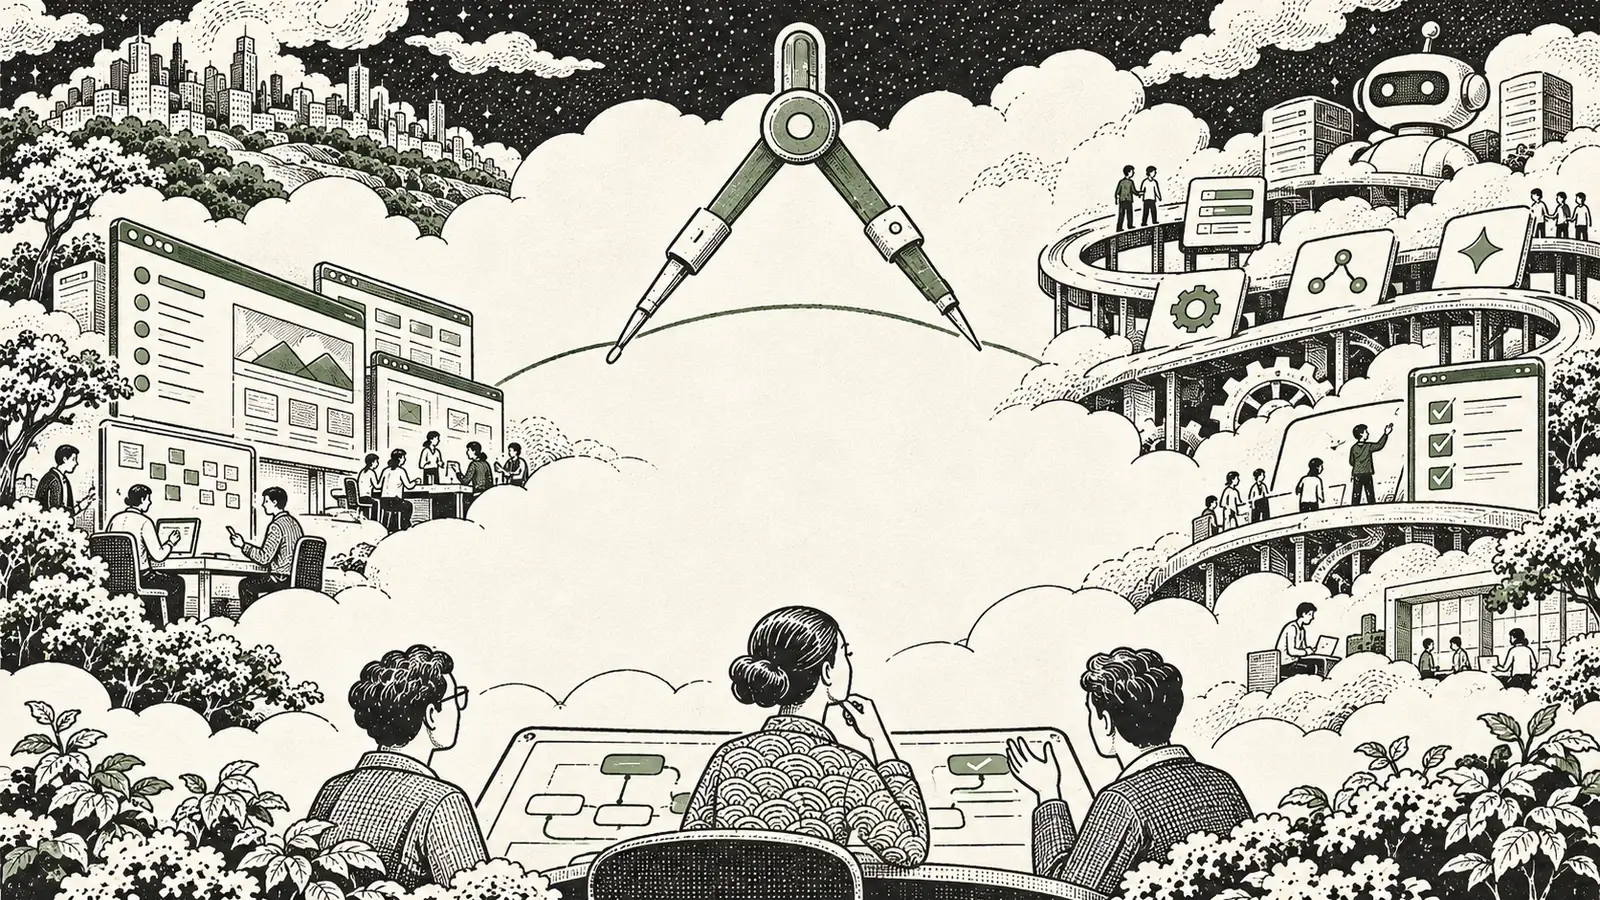
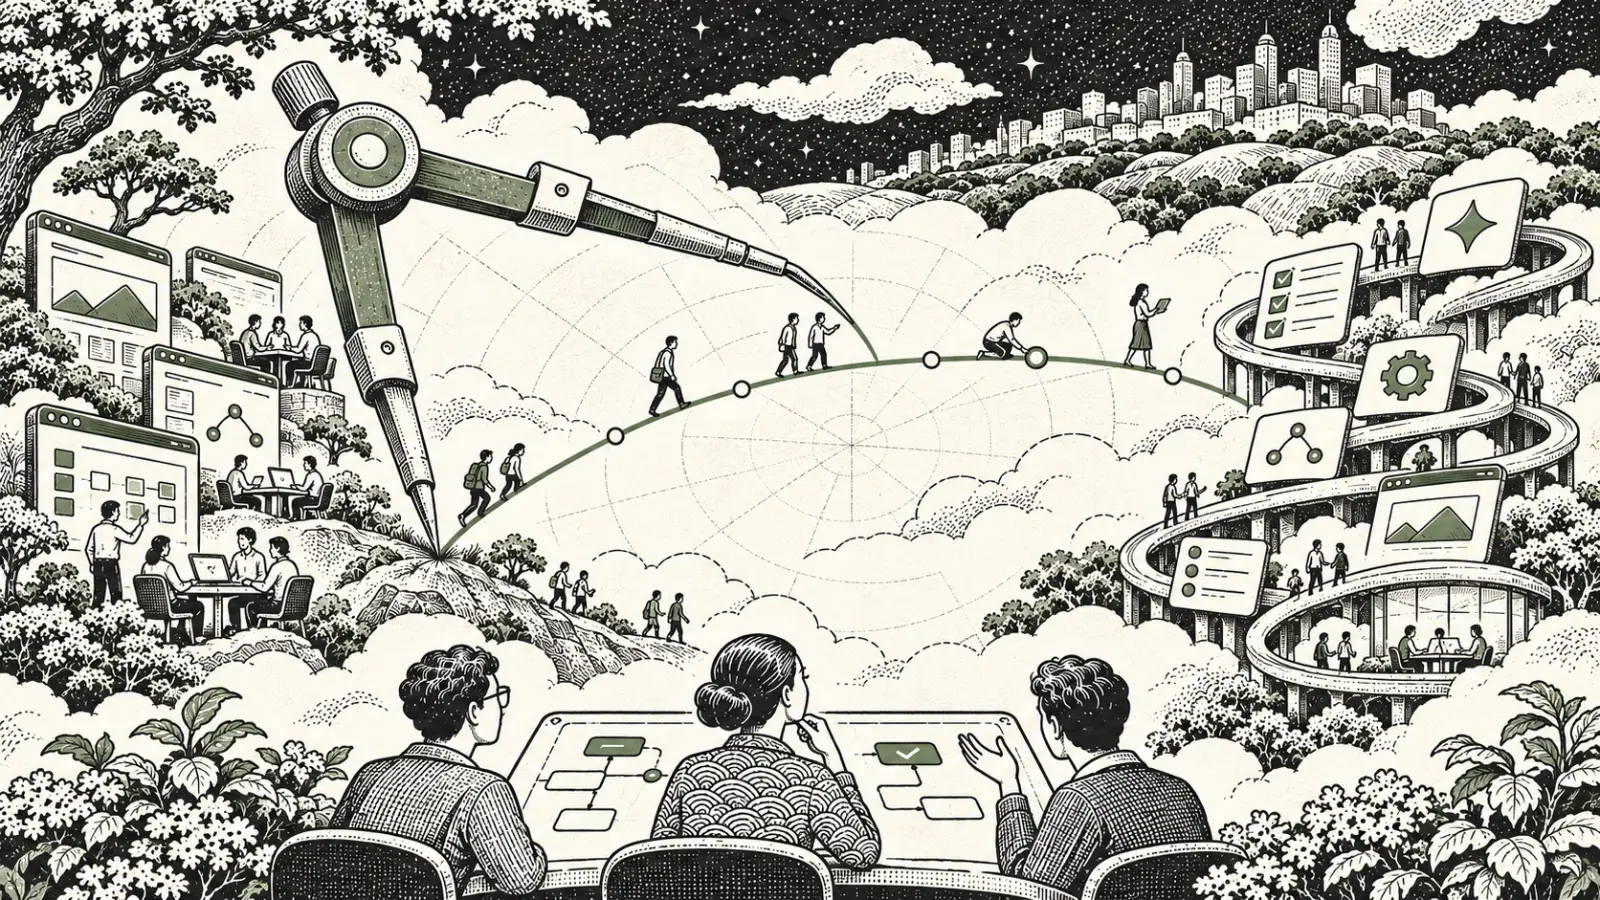
Writing: Lesson 1's three pilot drawings, redrawn on review
Owner's notes on the pilot: the hero's compass sat dead center over
an empty middle, the scene repeated that symmetry and its sun and
paths read as odd, and the concept's dispatcher had a third arm.

- hero: the compass tilted, planted in the left hillside, drawing a
  sage arc people walk along, over a faint circular grid
- scene: a new picture, the dispatcher lower left on the phone with
  her notepad, three separate worlds joined only at her pen; 1664x936,
  so it is sharp at 2x in its 832px slot
- concept: the hand at her chin removed, drawn at 3:2, 960x640

Regenerated in ChatGPT from the bundle's hero as the style reference;
the bundle's originals are at fd5a55fc. Palette check passes on all
three, shots clean at 390, 768, and 1440, resting and states at the
same counts. The spec's robot rule now allows one small agent figure
doing a named job, as the concept does.

diff --git a/writing/what-changes-when-you-design-the-task-instead-of-the-app.html b/writing/what-changes-when-you-design-the-task-instead-of-the-app.html
@@ -275,7 +275,7 @@
           <h1 class="case-title">What changes when you design the task instead of the app?</h1>
           <p class="build-dek">The unit of design moves from one application&rsquo;s screens to the whole job a person is trying to finish, with agents carrying the steps between tools. The design work becomes deciding what the agent gathers, what it shows, and where the person decides.</p>
           </div>
-          <img class="shift-hero-art" src="../img/writing/shift/narrative-ink/chapter-1/chapter1-lesson1-hero.webp?v=1" width="1600" height="900" alt="" decoding="async" />
+          <img class="shift-hero-art" src="../img/writing/shift/narrative-ink/chapter-1/chapter1-lesson1-hero.webp?v=2" width="1600" height="900" alt="" decoding="async" />
         </div>
         <aside class="shift-terms" aria-labelledby="shift-terms-label">
           <p class="shift-terms-label" id="shift-terms-label">Three terms first</p>
@@ -294,7 +294,7 @@
           <h2 id="nobody-does-their-job-in-one-app">Nobody does their job in one app, so designing one app misses the job</h2>
           <p>A dispatcher assigning a load checks where each truck is, how many driving hours each driver has left, and what the customer was promised. <mark>Those answers usually live in different tools.</mark></p>
           <figure class="writing-scene">
-            <img src="../img/writing/shift/narrative-ink/chapter-1/chapter1-lesson1-dispatcher.webp?v=1" width="1200" height="675" loading="lazy" decoding="async" alt="A dispatcher reviews truck routes, driving hours, and orders on three separate computer monitors." />
+            <img src="../img/writing/shift/narrative-ink/chapter-1/chapter1-lesson1-dispatcher.webp?v=2" width="1664" height="936" loading="lazy" decoding="async" alt="An engraved drawing of a dispatcher at three monitors, a phone on her shoulder, writing on a notepad. Threads from a highway, a clock, and a warehouse meet only at her pen." />
             <figcaption>The dispatcher is the only thing joining the three screens.</figcaption>
           </figure>
           <p>Designing each tool well still leaves the person carrying the job between them: copying, comparing, and remembering. That carrying is <mark>the part of the work nobody owns</mark>.</p>
@@ -352,7 +352,7 @@
           <figure class="writing-figure shift-concept">
             <figcaption>What the person does between the tools, drawn</figcaption>
             <div class="shift-concept-body">
-              <img class="shift-concept-art" src="../img/writing/shift/narrative-ink/chapter-1/chapter1-lesson1-human-decision.webp?v=1" width="960" height="640" loading="lazy" decoding="async" alt="An illustrated agent gathers route, time, and warehouse evidence for a dispatcher, who can approve or decline." />
+              <img class="shift-concept-art" src="../img/writing/shift/narrative-ink/chapter-1/chapter1-lesson1-human-decision.webp?v=2" width="960" height="640" loading="lazy" decoding="async" alt="An illustrated agent gathers route, time, and warehouse evidence for a dispatcher, who can approve or decline." />
               <p class="shift-concept-line">Three tools, one job. Design the job, and the tools line up behind it.</p>
             </div>
           </figure>

diff --git a/writing/SHIFT_CH1_PILOT.md b/writing/SHIFT_CH1_PILOT.md
@@ -5,37 +5,40 @@ The pilot's pictures arrive as a separate bundle,
 yet. Nothing in the lesson points at a path under
 `img/writing/shift/narrative-ink/` until the files are in the repository.
 
-**Status, 2026-11-14: installed.** The bundle's installer ran dry, then
-applied, on this branch. Lesson 1 now shows the three pilot pictures. What was
-done to them, and what is still open:
+**Status, 2026-11-14: installed, then redrawn once on review.** The bundle's
+installer ran dry, then applied, on this branch. The owner reviewed the three
+on the page and asked for changes, and all three were regenerated in ChatGPT
+from the bundle's hero as the style reference. The bundle's originals are in
+this branch's history at fd5a55fc.
 
-| Picture | As shipped in the bundle | As committed | Why |
-| --- | --- | --- | --- |
-| `chapter1-lesson1-hero.webp` | 1600x900, 457 KB | 1600x900, 289 KB | Re-encoded at WebP quality 0.7; no visible loss at 1:1 on the finest hatching. Alt set back to `""`, the series rule for a hero beside its title. |
-| `chapter1-lesson1-dispatcher.webp` | 1200x675, 299 KB | 1200x675, 203 KB | Re-encoded at 0.7. |
-| `chapter1-lesson1-human-decision.webp` | 1200x675 (16:9), 295 KB | 960x640 (3:2), 133 KB | Cropped to the slot's ratio, 94 px off each side, so it is no longer drawn 16 percent too tall; then scaled and re-encoded. The dispatcher, the board, the agent, and both buttons are inside the crop. |
+| Picture | Review note | Now |
+| --- | --- | --- |
+| `chapter1-lesson1-hero.webp` | Compass dead center and upright; the middle empty | 1600x900. The compass is tilted, planted in the left hillside, and drawing a sage arc that people walk along from the app screens to the task spiral, over a faint circular grid. No robot. |
+| `chapter1-lesson1-dispatcher.webp` | Same symmetry as the hero; the sun and paths out of the monitor read as odd; no clear step on from the hero | 1664x936, a new picture. The dispatcher sits lower left, phone on her shoulder, writing on a notepad; a highway, a clock with resting drivers, and a warehouse float apart, joined only by three threads to her pen. Sharp at 2x in the 832 px slot. |
+| `chapter1-lesson1-human-decision.webp` | Good, but she had a third arm at her chin | 960x640, drawn at 3:2. The hand at her chin is gone; nothing else changed. |
 
-Page picture weight: 222 KB before, 1,051 KB as shipped, 625 KB as committed.
+All three pass the palette check, and `narrative-ink.mjs shots` is clean at
+390, 768, and 1440. Page picture weight: 222 KB before the pilot, 826 KB now,
+at WebP quality 0.7.
 
 **Open, for review:**
 
-1. **The scene is soft on a 2x screen** at 768 and 1440 (1200 px file in a
-   620 and 832 px slot). Needs a 1920x1080 export from the master; the bundle
-   has none.
-2. **The hero carries its paper**, so it sits on the sage ground as a pale,
-   square-cornered rectangle where the old hero was transparent. Either
-   knock the paper out at the source or accept the plate and give the slot's
-   pictures a consistent treatment across the series; that second choice is
-   a stylesheet decision, not made here.
-3. **Two things in the art break the spec as written**: a humanoid robot
-   stands for the agent in the hero and the concept, and the dispatcher's
-   jacket carries a wave pattern from the reference prints. Either the
-   pictures change or section 1's "Never" list does, before the series
-   copies them.
+1. **The hero and the concept carry their paper**, so the hero sits on the
+   sage ground as a pale, square-cornered rectangle where the old hero was
+   transparent. Knock the paper out at the source, or decide the plate is
+   the look and treat every hero the same way; the second is a stylesheet
+   decision, not made here.
+2. **The dispatcher's jacket keeps the wave pattern** from the reference
+   prints in the hero and the concept, which section 1's "Never" list
+   rules out. The new scene draws her in plain hatching.
+3. **The scene has no night sky**, so it is lighter than the other two.
+   It reads as the same hand; say if it should match.
 4. **The six icons fail the palette check**: 13 to 32 percent of their
    pixels are a yellower green than sage `#657D60`. They are in the library
    (`chapter1-icon-*.webp` and `@512.png` masters) and on no page; correct
    their hue before any placement.
+5. **Weight.** Hatching compresses poorly: a lesson in this hand carries
+   about four times the picture bytes it did.
 
 ## Exact image mapping
 

diff --git a/writing/NARRATIVE_INK_MANIFEST.md b/writing/NARRATIVE_INK_MANIFEST.md
@@ -34,9 +34,9 @@ is. Only the drawings in the rows below change.
 
 | Picture | Slot | Now | Level and export | Status | Alt |
 | --- | --- | --- | --- | --- | --- |
-| `chapter1-lesson1-hero.webp` | shift-hero-art | 1600x900, 289 KB | A panorama: 1600x900 (16:9), paper knocked out to alpha | narrative-ink | `""`<br>*empty: the title beside it says what the lesson is* |
-| `chapter1-lesson1-dispatcher.webp` | writing-scene | 1200x675, 203 KB | A panorama: 1920x1080 (16:9), on paper | narrative-ink | A dispatcher reviews truck routes, driving hours, and orders on three separate computer monitors.<br>*required: who, doing what, and the detail the caption points at* |
-| `chapter1-lesson1-human-decision.webp` | shift-concept-art | 960x640, 133 KB | B supporting: 1200x800 (3:2), on paper | narrative-ink | An illustrated agent gathers route, time, and warehouse evidence for a dispatcher, who can approve or decline.<br>*required: the object and the state that carries the idea* |
+| `chapter1-lesson1-hero.webp` | shift-hero-art | 1600x900, 312 KB | A panorama: 1600x900 (16:9), paper knocked out to alpha | narrative-ink | `""`<br>*empty: the title beside it says what the lesson is* |
+| `chapter1-lesson1-dispatcher.webp` | writing-scene | 1664x936, 349 KB | A panorama: 1920x1080 (16:9), on paper | narrative-ink | An engraved drawing of a dispatcher at three monitors, a phone on her shoulder, writing on a notepad. Threads from a highway, a clock, and a warehouse meet only at her pen.<br>*required: who, doing what, and the detail the caption points at* |
+| `chapter1-lesson1-human-decision.webp` | shift-concept-art | 960x640, 165 KB | B supporting: 1200x800 (3:2), on paper | narrative-ink | An illustrated agent gathers route, time, and warehouse evidence for a dispatcher, who can approve or decline.<br>*required: the object and the state that carries the idea* |
 
 ## Lesson 2, chapter 1: what-is-ux-for-when-agents-build-the-software.html
 

diff --git a/writing/NARRATIVE_INK_PANORAMA.md b/writing/NARRATIVE_INK_PANORAMA.md
@@ -51,9 +51,11 @@ lesson's argument picks the scene; the technique never does.
 - Japanese cultural motifs used as decoration: no torii, kimono, pagodas,
   Mount Fuji, cherry blossom, or wave crests. The technique is borrowed; the
   world is a contemporary office, kitchen, workshop, or screen.
-- Robots, glowing brains, circuit faces, or sparkles as shorthand for AI.
-  An agent is shown by what it does: a stack it gathered, a question it
-  stopped on, a line it will not cross.
+- Glowing brains, circuit faces, or sparkles as shorthand for AI, and no
+  robot as decoration. Where a picture needs the agent as a character, it
+  is one small plain figure doing a specific job the lesson describes
+  (carrying evidence to a board, stopping at a line), never the focal mass
+  and never the one deciding. The Lesson 1 concept is the model.
 - Words, numbers, logos, or legible UI text in the drawing. Every label is
   the page's own text (the existing rule in `writing/shift.css`). Screens
   carry hatched bars and blocks, not copy.
@@ -241,7 +243,7 @@ bare paper between the layers. One accent color only, {ACCENT_NAME}
 {ACCENT_HEX}, used sparingly as flat hatched fills on {ACCENT_ROLE}.
 No other colors: no red, no yellow, no skin or wood tones. No words, letters,
 numbers, logos, or legible screen text anywhere. No Japanese cultural motifs,
-no robots, no glowing brains.
+no glowing brains, no robot unless the brief names one.
 ```
 
 **Panorama (hero, scene, share)**
